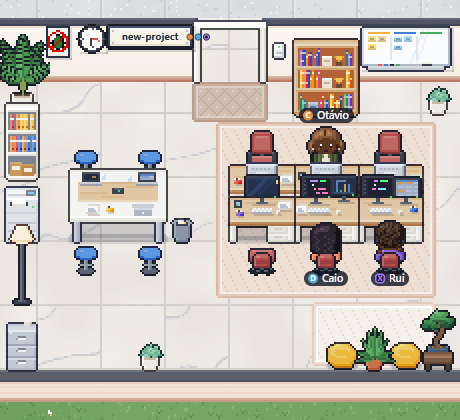
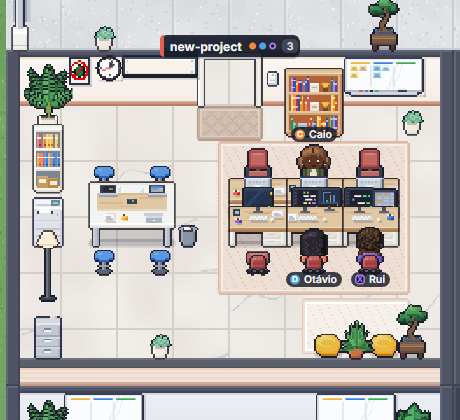
Update the README for the house, the company and the HQ console (#14)
The top of the README now lists what JGENTS adds on top of watching (Crew, the
company and its HQ console, the house with its entertainment wing, the
creatures) and no longer calls itself Habblaud's documentation renamed.

"What it looks like" describes the house as it is: the Main Office in the
middle, the wing, and amenity rooms instead of empty spots. New screenshots,
all from demo mode or staged demo data: the overview, the company at the hot
desks with the CEO at the head of the table, and the HQ console. The room
lifecycle is shot again in the house, and its last step is the spot turning
back into an amenity room instead of a garden.

diff --git a/README.md b/README.md
@@ -15,7 +15,7 @@
 > It is renamed throughout (the `/jgents` command, `JGENTS_*` settings, the `~/.jgents` data folder) and moves an existing Habblaud install over on first start.
 > It defaults to English everywhere, including the Claude Code add-on in `mod/` and demo mode, and runs cleanly on Windows.
 > On Windows, `npm run build` then `npm run win:install` keeps it running in the background (it starts with Windows and restarts itself) and adds a JGENTS shortcut you can pin to the taskbar.
-> The rest of this README is Habblaud's documentation with the name changed.
+> Since then it has grown features of its own (listed below); the rest of this README builds on Habblaud's documentation.
 
 <p align="center">
   <img alt="Node.js 22.12+" src="https://img.shields.io/badge/node-%E2%89%A522.12-5fa04e?logo=node.js&logoColor=white" />
@@ -44,6 +44,15 @@ Everything runs on your machine, reading the files Claude Code itself already wr
 your shell, to give each account its letter). Nothing leaves the computer: JGENTS doesn't read credentials or make
 external calls.
 
+**What JGENTS adds on top of watching:**
+
+- **[Crew](#crew-one-chat-for-a-team-of-agents):** one chat for a team of long-lived Claude Code agents, each in its own folder and session; requests go to the right agent, and their questions land on one board.
+- **[A company and its HQ console](#the-company-and-its-hq):** one click adds a CEO and 16 departments (finance, HR, legal, marketing and the rest).
+  You talk to the CEO only, by typing or by voice, and it briefs the departments and answers you once.
+  The HQ console at `/hq` shows the whole company at a glance.
+- **[A house with a social life](#the-house-and-the-entertainment-wing):** a Main Office in the middle, amenity rooms instead of empty ones, and an entertainment wing (coffee bar, billiards, pickleball, karaoke) where idle agents play together.
+- **[Creatures on the grounds](#legendary-creatures):** original creatures roam around the house, or your own images from a folder.
+
 ## Contents
 
 - [What it looks like](#what-it-looks-like)
@@ -61,11 +70,22 @@ external calls.
 
 ## What it looks like
 
-**Overview.** The building has a lobby with elevators, a kitchen, restrooms and a lounge; each project with an open
-session gets its own room along the hallway. At the top, the counters and each account's usage; on the left, the rooms
-and agents; at the bottom, the activity feed.
+**Overview.** The house has a Main Office in the middle, ringed by halls, with the reception and its elevators, a kitchen, restrooms, a lounge, a coffee bar, a pickleball court, a billiards club and karaoke around it.
+Each project with an open session gets its own room; the spots without a project are amenity rooms (game room, library, snack bar, indoor garden, meeting room, music studio, ping-pong, nap room), so the house never shows an empty room.
+At the top, the counters and each account's usage; on the left, the rooms and agents; at the bottom, the activity feed.
 
-![JGENTS overview: building with lobby, kitchen, restrooms, lounge and project rooms; sidebar with rooms and agents; account usage at the top; activity feed at the bottom](docs/screenshots/overview.png)
+![JGENTS overview: the house with the Main Office in the middle, the entertainment wing, amenity rooms and six project rooms; sidebar with rooms and agents; account usage at the top; activity feed at the bottom](docs/screenshots/overview.png)
+
+**The company at work.** Set up a company and its CEO and departments move into the Main Office, all in a navy blazer over a shirt in their department's colour.
+Whoever has a brief takes a hot desk, the CEO works from the head of the meeting table, and the idle ones are spread over the house, playing and wandering until the next brief.
+
+![The Main Office: HR, Marketing, Finance, Legal and Design at the hot desks, each with a name tag and a live screen, and the CEO at the head of the meeting table](docs/screenshots/company.png)
+
+**The HQ console** (`/hq`) is made for a big screen: the company's pulse, the departments on a ring around the CEO, the open request and who has reported, the questions waiting for you, the latest deliverables, and the talk bar.
+Hold **Space** to talk to the CEO, or press **M** to keep it listening; your voice is turned into text on your own computer and the answers are read aloud.
+See [The company and its HQ](#the-company-and-its-hq).
+
+![The HQ console: company pulse and requests per hour on the left, the CEO in the middle of a ring of departments with their status, the latest request with each department's progress, a question from Finance with one-click answers, the deliverables, and the talk bar with the CEO's last answer](docs/screenshots/hq.png)
 
 <table>
   <tr>
@@ -105,15 +125,13 @@ and agents; at the bottom, the activity feed.
   </tr>
 </table>
 
-**The lights go out.** When you close a project's last session, the last character walks to the light switch,
-turns off the lights and leaves by elevator — and the room is taken apart, becoming a garden until a new project
-arrives. If the garden ended up between two rooms, the farthest room moves there: it's set up in the empty spot,
-everyone walks over to it, and the old address goes dark and is taken apart. That way the building has no gaps and
-shrinks on its own.
+**The lights go out.** When you close a project's last session, the last character walks to the light switch, turns off the lights and leaves by elevator, and the room is taken apart: its spot becomes an amenity room again until a new project needs it.
+If that leaves a gap before the last project room, the farthest room moves into it: it's set up in the new spot, everyone walks over, and the old address goes dark and is taken apart.
+That way the project rooms stay together and the house loses a floor when it no longer needs it.
 
-| 1. The room is set up, still dark | 2. Someone turns on the lights and everyone works | 3. The last one leaves and turns off the lights | 4. The room becomes a garden |
+| 1. The room is set up, still dark | 2. Someone turns on the lights and everyone works | 3. The last one leaves and turns off the lights | 4. The spot is an amenity room again |
 | --- | --- | --- | --- |
-| ![Room being set up, with the furniture appearing and the lights off](docs/screenshots/lifecycle-1.png) | ![Lit room with three agents working at their desks](docs/screenshots/lifecycle-2.png) | ![Room with the lights off and the furniture still in place, after everyone left](docs/screenshots/lifecycle-3.png) | ![The room's lot turned into a garden](docs/screenshots/lifecycle-4.png) |
+| ![Room being set up, with the furniture appearing and the lights off](docs/screenshots/lifecycle-1.png) | ![Lit room with three agents working at their desks](docs/screenshots/lifecycle-2.png) | ![Room with the lights off and the furniture still in place, after everyone left](docs/screenshots/lifecycle-3.png) | ![The same spot furnished as the game room again, with arcade machines and beanbags](docs/screenshots/lifecycle-4.png) |
 
 <table>
   <tr>
